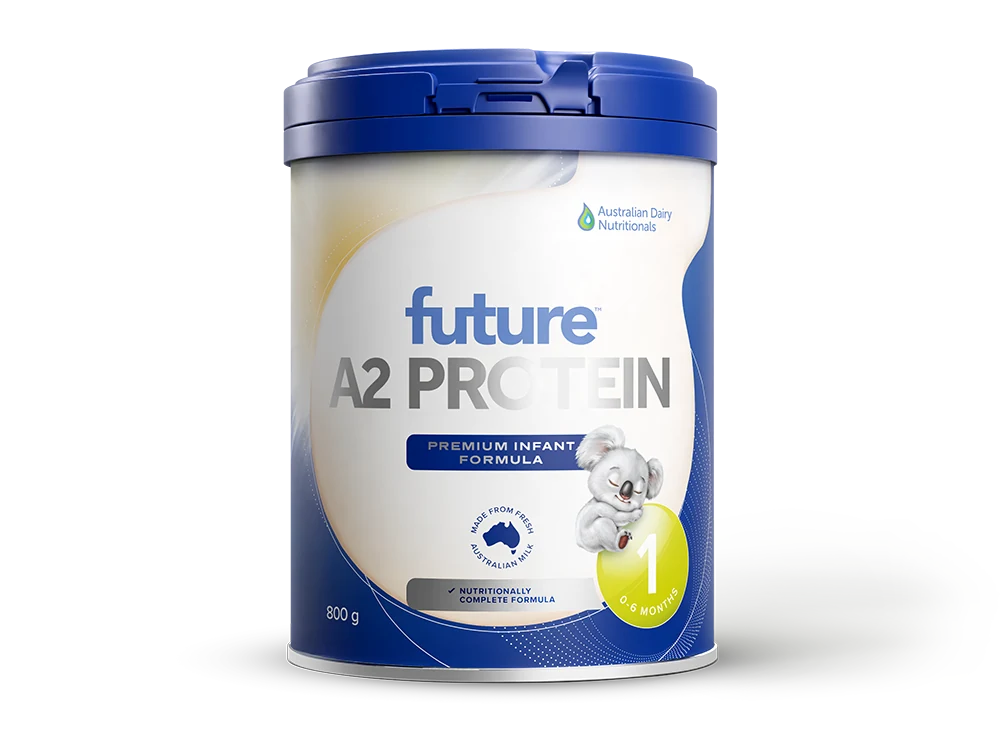
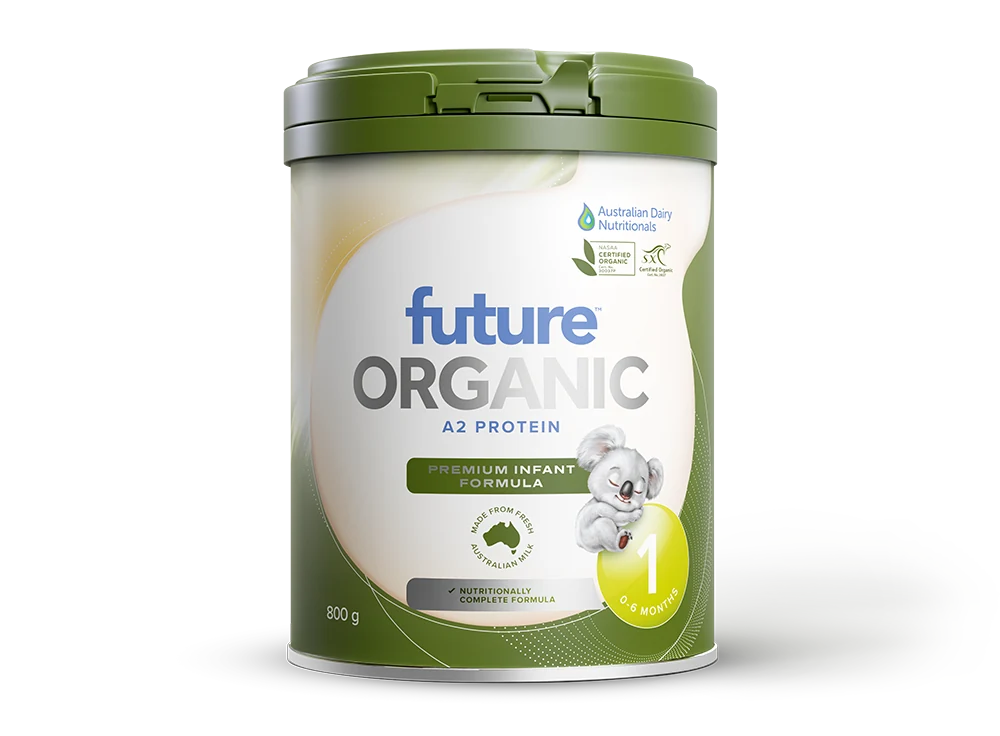
Replace Future Organic A2 packshots with official Cloudinary front-isolated images; fix aspect-ratio attributes to 1000x736

Changed region(s): [[0.279, 0.2812, 0.713, 0.9062], [0.279, 0.0625, 0.744, 0.2188]]

diff --git a/index.html b/index.html
@@ -425,7 +425,7 @@
  <!-- Floating Tin with Lazy Load -->
  <a href="/san-pham/future-organic-1" class="py-6 sm:py-8 flex items-center justify-center relative my-1 sm:my-2 block">
  <div class="absolute w-28 sm:w-32 h-5 sm:h-6 bg-black/10 rounded-full blur-md bottom-5 sm:bottom-6 transition-all duration-500 group-hover:scale-110 group-hover:bg-black/15"></div>
- <img src="/future-stage-1.webp" loading="lazy" width="200" height="208" alt="Future Organic A2 Protein" class="max-h-44 sm:max-h-52 w-auto object-contain relative z-10 transition-transform duration-500 group-hover:-translate-y-2 group-hover:scale-105">
+ <img src="/future-stage-1.webp" loading="lazy" width="272" height="200" alt="Future Organic A2 Protein" class="max-h-44 sm:max-h-52 w-auto object-contain relative z-10 transition-transform duration-500 group-hover:-translate-y-2 group-hover:scale-105">
  </a>
 
  <!-- Title & Editorial Description -->
@@ -467,7 +467,7 @@
  <!-- Floating Tin with Lazy Load -->
  <a href="/san-pham/future-organic-2" class="py-6 sm:py-8 flex items-center justify-center relative my-1 sm:my-2 block">
  <div class="absolute w-28 sm:w-32 h-5 sm:h-6 bg-black/10 rounded-full blur-md bottom-5 sm:bottom-6 transition-all duration-500 group-hover:scale-110 group-hover:bg-black/15"></div>
- <img src="/future-stage-2.webp" loading="lazy" width="200" height="208" alt="Future Organic A2 Protein" class="max-h-44 sm:max-h-52 w-auto object-contain relative z-10 transition-transform duration-500 group-hover:-translate-y-2 group-hover:scale-105">
+ <img src="/future-stage-2.webp" loading="lazy" width="272" height="200" alt="Future Organic A2 Protein" class="max-h-44 sm:max-h-52 w-auto object-contain relative z-10 transition-transform duration-500 group-hover:-translate-y-2 group-hover:scale-105">
  </a>
 
  <!-- Title & Editorial Description -->
@@ -509,7 +509,7 @@
  <!-- Floating Tin with Lazy Load -->
  <a href="/san-pham/future-organic-3" class="py-6 sm:py-8 flex items-center justify-center relative my-1 sm:my-2 block">
  <div class="absolute w-28 sm:w-32 h-5 sm:h-6 bg-black/10 rounded-full blur-md bottom-5 sm:bottom-6 transition-all duration-500 group-hover:scale-110 group-hover:bg-black/15"></div>
- <img src="/future-stage-3.webp" loading="lazy" width="200" height="208" alt="Future Organic A2 Protein" class="max-h-44 sm:max-h-52 w-auto object-contain relative z-10 transition-transform duration-500 group-hover:-translate-y-2 group-hover:scale-105">
+ <img src="/future-stage-3.webp" loading="lazy" width="272" height="200" alt="Future Organic A2 Protein" class="max-h-44 sm:max-h-52 w-auto object-contain relative z-10 transition-transform duration-500 group-hover:-translate-y-2 group-hover:scale-105">
  </a>
 
  <!-- Title & Editorial Description -->

diff --git a/san-pham/index.html b/san-pham/index.html
@@ -357,7 +357,7 @@
  <!-- Floating Tin with Lazy Load -->
  <a href="/san-pham/future-organic-1" class="py-6 sm:py-8 flex items-center justify-center relative my-1 sm:my-2 block">
  <div class="absolute w-28 sm:w-32 h-5 sm:h-6 bg-black/10 rounded-full blur-md bottom-5 sm:bottom-6 transition-all duration-500 group-hover:scale-110 group-hover:bg-black/15"></div>
- <img src="/future-stage-1.webp" loading="lazy" width="200" height="208" alt="Future Organic A2 Protein" class="max-h-44 sm:max-h-52 w-auto object-contain relative z-10 transition-transform duration-500 group-hover:-translate-y-2 group-hover:scale-105">
+ <img src="/future-stage-1.webp" loading="lazy" width="272" height="200" alt="Future Organic A2 Protein" class="max-h-44 sm:max-h-52 w-auto object-contain relative z-10 transition-transform duration-500 group-hover:-translate-y-2 group-hover:scale-105">
  </a>
 
  <!-- Title & Editorial Description -->
@@ -399,7 +399,7 @@
  <!-- Floating Tin with Lazy Load -->
  <a href="/san-pham/future-organic-2" class="py-6 sm:py-8 flex items-center justify-center relative my-1 sm:my-2 block">
  <div class="absolute w-28 sm:w-32 h-5 sm:h-6 bg-black/10 rounded-full blur-md bottom-5 sm:bottom-6 transition-all duration-500 group-hover:scale-110 group-hover:bg-black/15"></div>
- <img src="/future-stage-2.webp" loading="lazy" width="200" height="208" alt="Future Organic A2 Protein" class="max-h-44 sm:max-h-52 w-auto object-contain relative z-10 transition-transform duration-500 group-hover:-translate-y-2 group-hover:scale-105">
+ <img src="/future-stage-2.webp" loading="lazy" width="272" height="200" alt="Future Organic A2 Protein" class="max-h-44 sm:max-h-52 w-auto object-contain relative z-10 transition-transform duration-500 group-hover:-translate-y-2 group-hover:scale-105">
  </a>
 
  <!-- Title & Editorial Description -->
@@ -441,7 +441,7 @@
  <!-- Floating Tin with Lazy Load -->
  <a href="/san-pham/future-organic-3" class="py-6 sm:py-8 flex items-center justify-center relative my-1 sm:my-2 block">
  <div class="absolute w-28 sm:w-32 h-5 sm:h-6 bg-black/10 rounded-full blur-md bottom-5 sm:bottom-6 transition-all duration-500 group-hover:scale-110 group-hover:bg-black/15"></div>
- <img src="/future-stage-3.webp" loading="lazy" width="200" height="208" alt="Future Organic A2 Protein" class="max-h-44 sm:max-h-52 w-auto object-contain relative z-10 transition-transform duration-500 group-hover:-translate-y-2 group-hover:scale-105">
+ <img src="/future-stage-3.webp" loading="lazy" width="272" height="200" alt="Future Organic A2 Protein" class="max-h-44 sm:max-h-52 w-auto object-contain relative z-10 transition-transform duration-500 group-hover:-translate-y-2 group-hover:scale-105">
  </a>
 
  <!-- Title & Editorial Description -->

diff --git a/san-pham/future-organic-1/index.html b/san-pham/future-organic-1/index.html
@@ -252,7 +252,7 @@
  Organic A2 Úc
  </span>
  <div class="absolute w-36 sm:w-48 h-6 sm:h-8 bg-black/10 rounded-full blur-md bottom-8 sm:bottom-12"></div>
- <img src="/future-stage-1.webp" alt="Future Organic A2 Protein" class="max-h-[240px] sm:max-h-[320px] w-auto object-contain relative z-10 drop-shadow-sm transition-transform duration-500 hover:scale-105">
+ <img src="/future-stage-1.webp" width="1000" height="736" alt="Future Organic A2 Protein" class="max-h-[240px] sm:max-h-[320px] w-auto object-contain relative z-10 drop-shadow-sm transition-transform duration-500 hover:scale-105">
  <span class="text-xs text-text-muted mt-4 sm:mt-6 font-semibold">800g / lon · Victoria, Úc</span>
  </div>
 
@@ -363,7 +363,7 @@
  <!-- Floating Tin with Lazy Load -->
  <a href="/san-pham/future-organic-2" class="py-6 sm:py-8 flex items-center justify-center relative my-1 sm:my-2 block">
  <div class="absolute w-28 sm:w-32 h-5 sm:h-6 bg-black/10 rounded-full blur-md bottom-5 sm:bottom-6 transition-all duration-500 group-hover:scale-110 group-hover:bg-black/15"></div>
- <img src="/future-stage-2.webp" loading="lazy" width="200" height="208" alt="Future Organic A2 Protein" class="max-h-44 sm:max-h-52 w-auto object-contain relative z-10 transition-transform duration-500 group-hover:-translate-y-2 group-hover:scale-105">
+ <img src="/future-stage-2.webp" loading="lazy" width="272" height="200" alt="Future Organic A2 Protein" class="max-h-44 sm:max-h-52 w-auto object-contain relative z-10 transition-transform duration-500 group-hover:-translate-y-2 group-hover:scale-105">
  </a>
 
  <!-- Title & Editorial Description -->
@@ -405,7 +405,7 @@
  <!-- Floating Tin with Lazy Load -->
  <a href="/san-pham/future-organic-3" class="py-6 sm:py-8 flex items-center justify-center relative my-1 sm:my-2 block">
  <div class="absolute w-28 sm:w-32 h-5 sm:h-6 bg-black/10 rounded-full blur-md bottom-5 sm:bottom-6 transition-all duration-500 group-hover:scale-110 group-hover:bg-black/15"></div>
- <img src="/future-stage-3.webp" loading="lazy" width="200" height="208" alt="Future Organic A2 Protein" class="max-h-44 sm:max-h-52 w-auto object-contain relative z-10 transition-transform duration-500 group-hover:-translate-y-2 group-hover:scale-105">
+ <img src="/future-stage-3.webp" loading="lazy" width="272" height="200" alt="Future Organic A2 Protein" class="max-h-44 sm:max-h-52 w-auto object-contain relative z-10 transition-transform duration-500 group-hover:-translate-y-2 group-hover:scale-105">
  </a>
 
  <!-- Title & Editorial Description -->

diff --git a/san-pham/future-organic-2/index.html b/san-pham/future-organic-2/index.html
@@ -252,7 +252,7 @@
  Organic A2 Úc
  </span>
  <div class="absolute w-36 sm:w-48 h-6 sm:h-8 bg-black/10 rounded-full blur-md bottom-8 sm:bottom-12"></div>
- <img src="/future-stage-2.webp" alt="Future Organic A2 Protein" class="max-h-[240px] sm:max-h-[320px] w-auto object-contain relative z-10 drop-shadow-sm transition-transform duration-500 hover:scale-105">
+ <img src="/future-stage-2.webp" width="1000" height="736" alt="Future Organic A2 Protein" class="max-h-[240px] sm:max-h-[320px] w-auto object-contain relative z-10 drop-shadow-sm transition-transform duration-500 hover:scale-105">
  <span class="text-xs text-text-muted mt-4 sm:mt-6 font-semibold">800g / lon · Victoria, Úc</span>
  </div>
 
@@ -363,7 +363,7 @@
  <!-- Floating Tin with Lazy Load -->
  <a href="/san-pham/future-organic-1" class="py-6 sm:py-8 flex items-center justify-center relative my-1 sm:my-2 block">
  <div class="absolute w-28 sm:w-32 h-5 sm:h-6 bg-black/10 rounded-full blur-md bottom-5 sm:bottom-6 transition-all duration-500 group-hover:scale-110 group-hover:bg-black/15"></div>
- <img src="/future-stage-1.webp" loading="lazy" width="200" height="208" alt="Future Organic A2 Protein" class="max-h-44 sm:max-h-52 w-auto object-contain relative z-10 transition-transform duration-500 group-hover:-translate-y-2 group-hover:scale-105">
+ <img src="/future-stage-1.webp" loading="lazy" width="272" height="200" alt="Future Organic A2 Protein" class="max-h-44 sm:max-h-52 w-auto object-contain relative z-10 transition-transform duration-500 group-hover:-translate-y-2 group-hover:scale-105">
  </a>
 
  <!-- Title & Editorial Description -->
@@ -405,7 +405,7 @@
  <!-- Floating Tin with Lazy Load -->
  <a href="/san-pham/future-organic-3" class="py-6 sm:py-8 flex items-center justify-center relative my-1 sm:my-2 block">
  <div class="absolute w-28 sm:w-32 h-5 sm:h-6 bg-black/10 rounded-full blur-md bottom-5 sm:bottom-6 transition-all duration-500 group-hover:scale-110 group-hover:bg-black/15"></div>
- <img src="/future-stage-3.webp" loading="lazy" width="200" height="208" alt="Future Organic A2 Protein" class="max-h-44 sm:max-h-52 w-auto object-contain relative z-10 transition-transform duration-500 group-hover:-translate-y-2 group-hover:scale-105">
+ <img src="/future-stage-3.webp" loading="lazy" width="272" height="200" alt="Future Organic A2 Protein" class="max-h-44 sm:max-h-52 w-auto object-contain relative z-10 transition-transform duration-500 group-hover:-translate-y-2 group-hover:scale-105">
  </a>
 
  <!-- Title & Editorial Description -->

diff --git a/san-pham/future-organic-3/index.html b/san-pham/future-organic-3/index.html
@@ -252,7 +252,7 @@
  Organic A2 Úc
  </span>
  <div class="absolute w-36 sm:w-48 h-6 sm:h-8 bg-black/10 rounded-full blur-md bottom-8 sm:bottom-12"></div>
- <img src="/future-stage-3.webp" alt="Future Organic A2 Protein" class="max-h-[240px] sm:max-h-[320px] w-auto object-contain relative z-10 drop-shadow-sm transition-transform duration-500 hover:scale-105">
+ <img src="/future-stage-3.webp" width="1000" height="736" alt="Future Organic A2 Protein" class="max-h-[240px] sm:max-h-[320px] w-auto object-contain relative z-10 drop-shadow-sm transition-transform duration-500 hover:scale-105">
  <span class="text-xs text-text-muted mt-4 sm:mt-6 font-semibold">800g / lon · Victoria, Úc</span>
  </div>
 
@@ -363,7 +363,7 @@
  <!-- Floating Tin with Lazy Load -->
  <a href="/san-pham/future-organic-1" class="py-6 sm:py-8 flex items-center justify-center relative my-1 sm:my-2 block">
  <div class="absolute w-28 sm:w-32 h-5 sm:h-6 bg-black/10 rounded-full blur-md bottom-5 sm:bottom-6 transition-all duration-500 group-hover:scale-110 group-hover:bg-black/15"></div>
- <img src="/future-stage-1.webp" loading="lazy" width="200" height="208" alt="Future Organic A2 Protein" class="max-h-44 sm:max-h-52 w-auto object-contain relative z-10 transition-transform duration-500 group-hover:-translate-y-2 group-hover:scale-105">
+ <img src="/future-stage-1.webp" loading="lazy" width="272" height="200" alt="Future Organic A2 Protein" class="max-h-44 sm:max-h-52 w-auto object-contain relative z-10 transition-transform duration-500 group-hover:-translate-y-2 group-hover:scale-105">
  </a>
 
  <!-- Title & Editorial Description -->
@@ -405,7 +405,7 @@
  <!-- Floating Tin with Lazy Load -->
  <a href="/san-pham/future-organic-2" class="py-6 sm:py-8 flex items-center justify-center relative my-1 sm:my-2 block">
  <div class="absolute w-28 sm:w-32 h-5 sm:h-6 bg-black/10 rounded-full blur-md bottom-5 sm:bottom-6 transition-all duration-500 group-hover:scale-110 group-hover:bg-black/15"></div>
- <img src="/future-stage-2.webp" loading="lazy" width="200" height="208" alt="Future Organic A2 Protein" class="max-h-44 sm:max-h-52 w-auto object-contain relative z-10 transition-transform duration-500 group-hover:-translate-y-2 group-hover:scale-105">
+ <img src="/future-stage-2.webp" loading="lazy" width="272" height="200" alt="Future Organic A2 Protein" class="max-h-44 sm:max-h-52 w-auto object-contain relative z-10 transition-transform duration-500 group-hover:-translate-y-2 group-hover:scale-105">
  </a>
 
  <!-- Title & Editorial Description -->

diff --git a/san-pham/future-1/index.html b/san-pham/future-1/index.html
@@ -447,7 +447,7 @@
  <!-- Floating Tin with Lazy Load -->
  <a href="/san-pham/future-organic-1" class="py-6 sm:py-8 flex items-center justify-center relative my-1 sm:my-2 block">
  <div class="absolute w-28 sm:w-32 h-5 sm:h-6 bg-black/10 rounded-full blur-md bottom-5 sm:bottom-6 transition-all duration-500 group-hover:scale-110 group-hover:bg-black/15"></div>
- <img src="/future-stage-1.webp" loading="lazy" width="200" height="208" alt="Future Organic A2 Protein" class="max-h-44 sm:max-h-52 w-auto object-contain relative z-10 transition-transform duration-500 group-hover:-translate-y-2 group-hover:scale-105">
+ <img src="/future-stage-1.webp" loading="lazy" width="272" height="200" alt="Future Organic A2 Protein" class="max-h-44 sm:max-h-52 w-auto object-contain relative z-10 transition-transform duration-500 group-hover:-translate-y-2 group-hover:scale-105">
  </a>
 
  <!-- Title & Editorial Description -->

diff --git a/san-pham/future-2/index.html b/san-pham/future-2/index.html
@@ -447,7 +447,7 @@
  <!-- Floating Tin with Lazy Load -->
  <a href="/san-pham/future-organic-2" class="py-6 sm:py-8 flex items-center justify-center relative my-1 sm:my-2 block">
  <div class="absolute w-28 sm:w-32 h-5 sm:h-6 bg-black/10 rounded-full blur-md bottom-5 sm:bottom-6 transition-all duration-500 group-hover:scale-110 group-hover:bg-black/15"></div>
- <img src="/future-stage-2.webp" loading="lazy" width="200" height="208" alt="Future Organic A2 Protein" class="max-h-44 sm:max-h-52 w-auto object-contain relative z-10 transition-transform duration-500 group-hover:-translate-y-2 group-hover:scale-105">
+ <img src="/future-stage-2.webp" loading="lazy" width="272" height="200" alt="Future Organic A2 Protein" class="max-h-44 sm:max-h-52 w-auto object-contain relative z-10 transition-transform duration-500 group-hover:-translate-y-2 group-hover:scale-105">
  </a>
 
  <!-- Title & Editorial Description -->

diff --git a/san-pham/future-3/index.html b/san-pham/future-3/index.html
@@ -447,7 +447,7 @@
  <!-- Floating Tin with Lazy Load -->
  <a href="/san-pham/future-organic-3" class="py-6 sm:py-8 flex items-center justify-center relative my-1 sm:my-2 block">
  <div class="absolute w-28 sm:w-32 h-5 sm:h-6 bg-black/10 rounded-full blur-md bottom-5 sm:bottom-6 transition-all duration-500 group-hover:scale-110 group-hover:bg-black/15"></div>
- <img src="/future-stage-3.webp" loading="lazy" width="200" height="208" alt="Future Organic A2 Protein" class="max-h-44 sm:max-h-52 w-auto object-contain relative z-10 transition-transform duration-500 group-hover:-translate-y-2 group-hover:scale-105">
+ <img src="/future-stage-3.webp" loading="lazy" width="272" height="200" alt="Future Organic A2 Protein" class="max-h-44 sm:max-h-52 w-auto object-contain relative z-10 transition-transform duration-500 group-hover:-translate-y-2 group-hover:scale-105">
  </a>
 
  <!-- Title & Editorial Description -->

diff --git a/san-pham/infatrini/index.html b/san-pham/infatrini/index.html
@@ -363,7 +363,7 @@
  <!-- Floating Tin with Lazy Load -->
  <a href="/san-pham/future-organic-1" class="py-6 sm:py-8 flex items-center justify-center relative my-1 sm:my-2 block">
  <div class="absolute w-28 sm:w-32 h-5 sm:h-6 bg-black/10 rounded-full blur-md bottom-5 sm:bottom-6 transition-all duration-500 group-hover:scale-110 group-hover:bg-black/15"></div>
- <img src="/future-stage-1.webp" loading="lazy" width="200" height="208" alt="Future Organic A2 Protein" class="max-h-44 sm:max-h-52 w-auto object-contain relative z-10 transition-transform duration-500 group-hover:-translate-y-2 group-hover:scale-105">
+ <img src="/future-stage-1.webp" loading="lazy" width="272" height="200" alt="Future Organic A2 Protein" class="max-h-44 sm:max-h-52 w-auto object-contain relative z-10 transition-transform duration-500 group-hover:-translate-y-2 group-hover:scale-105">
  </a>
 
  <!-- Title & Editorial Description -->
